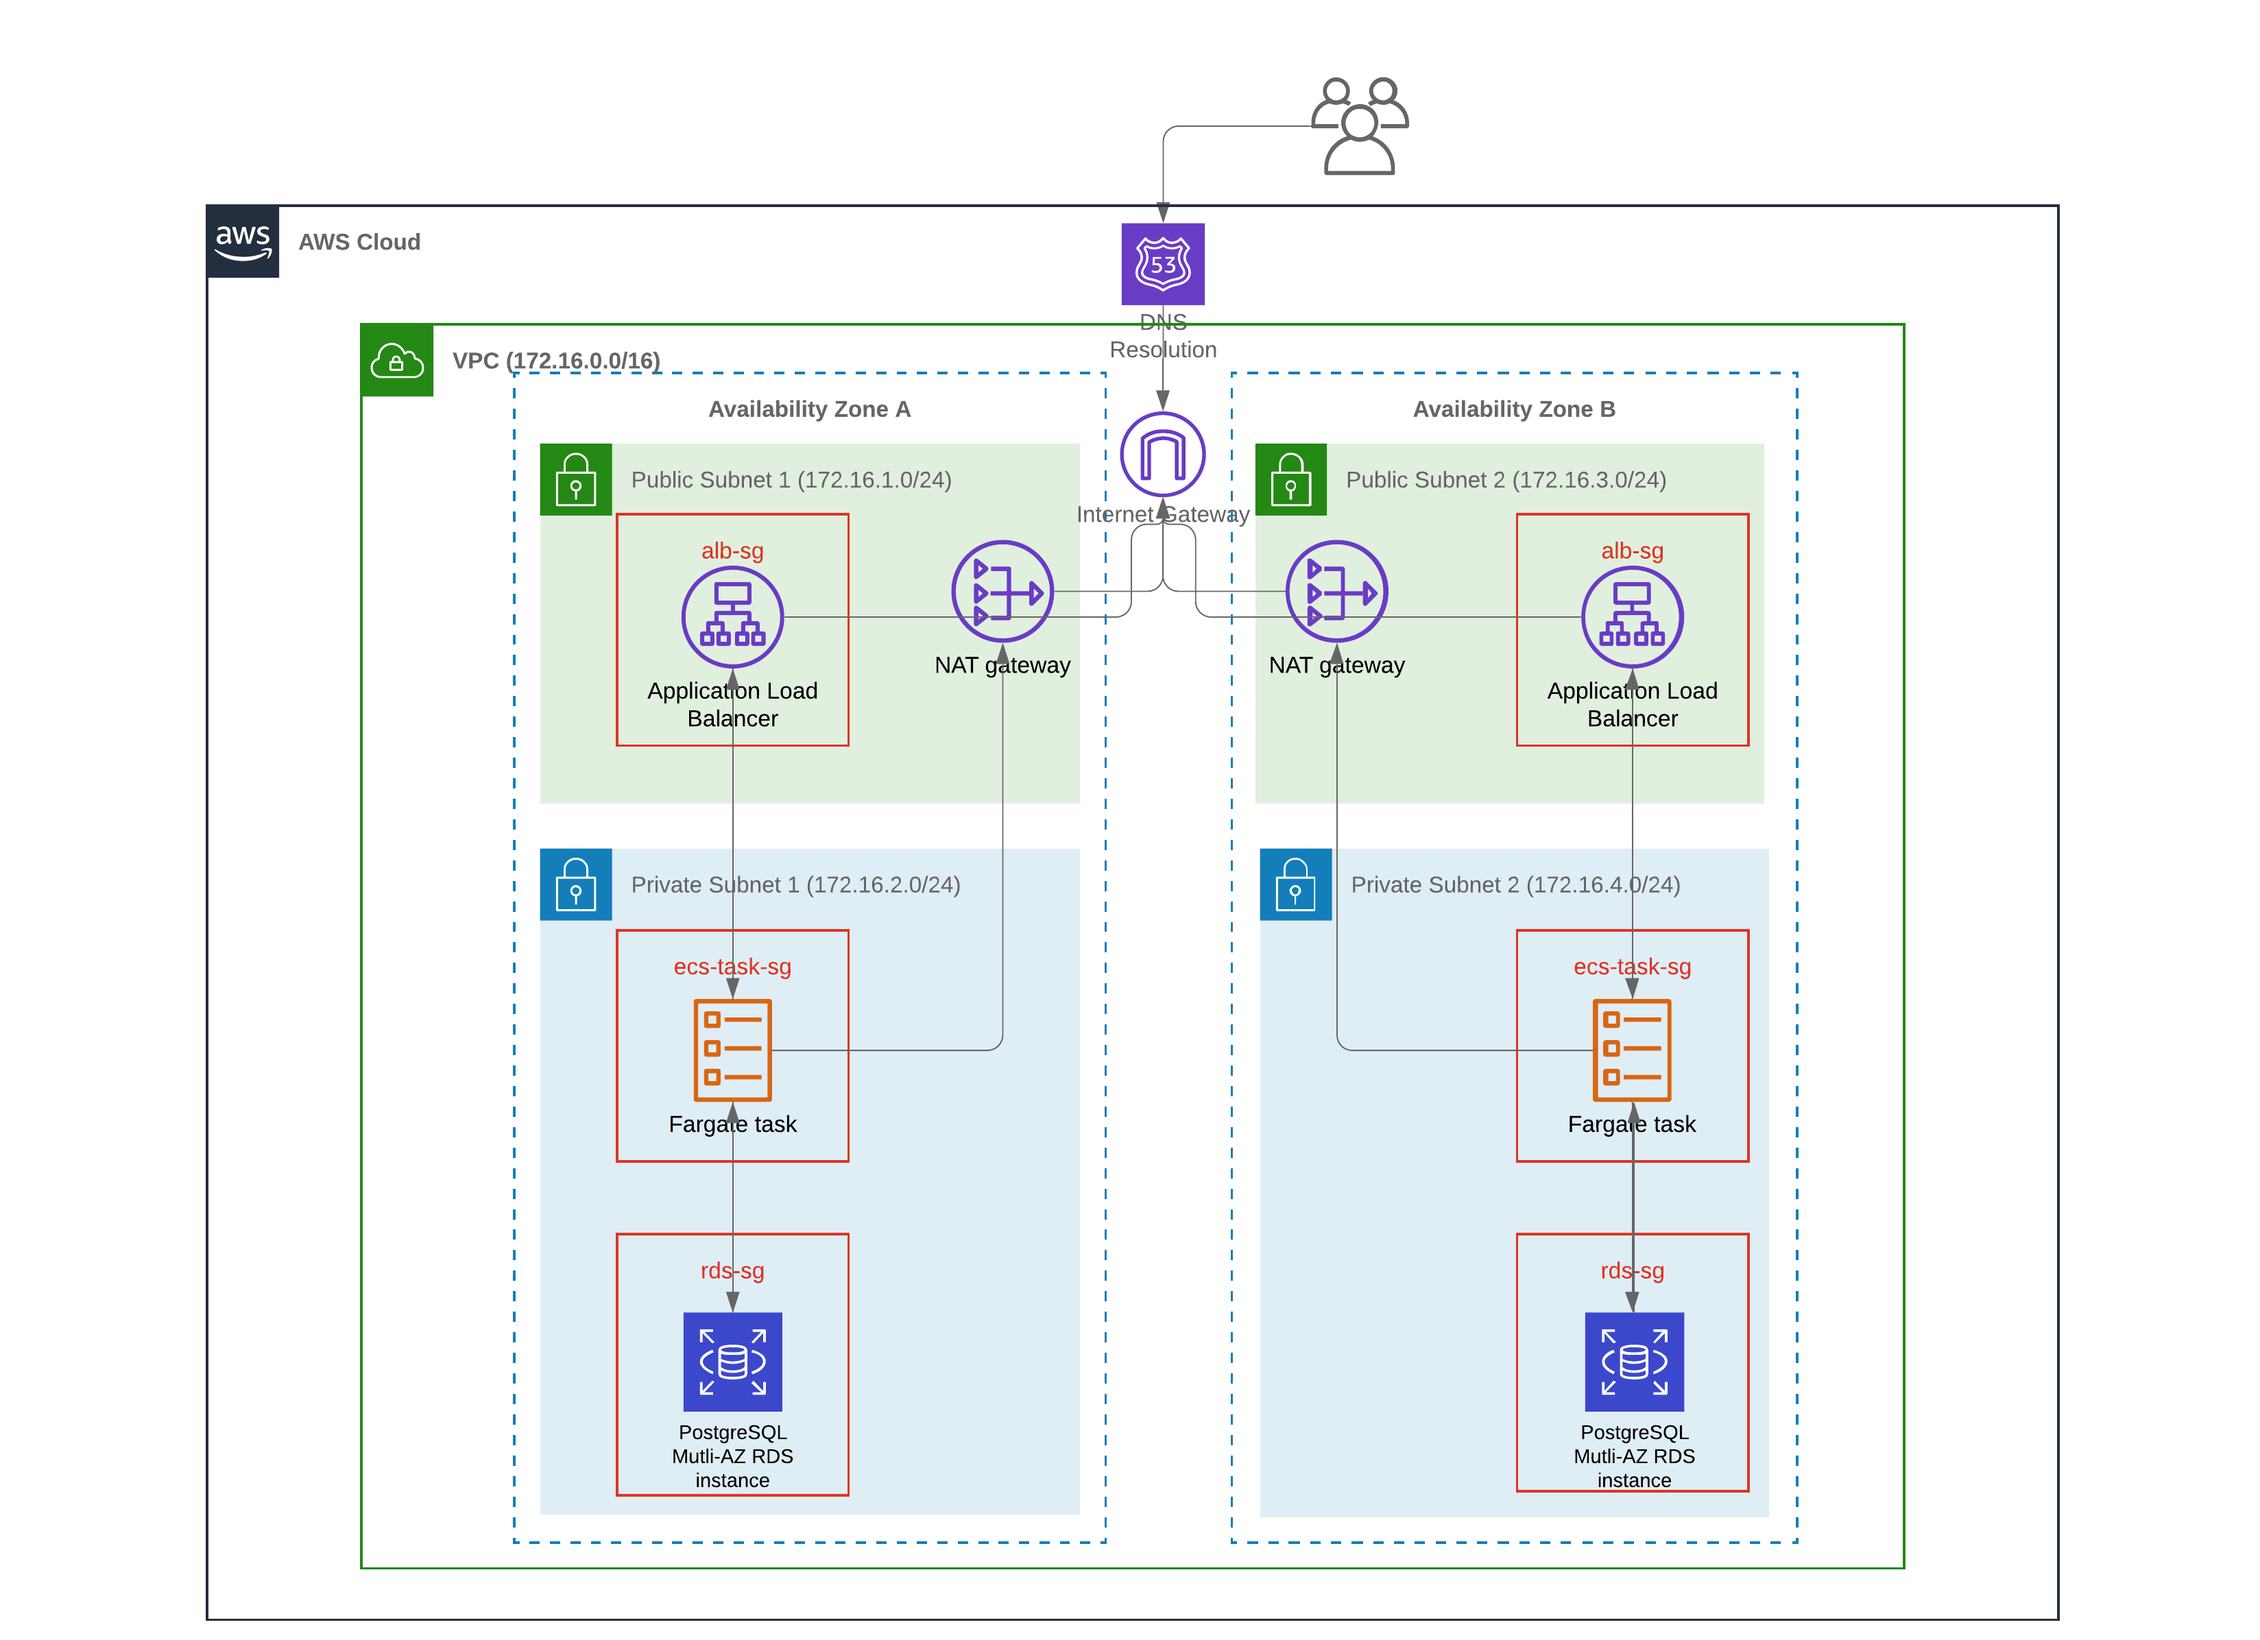
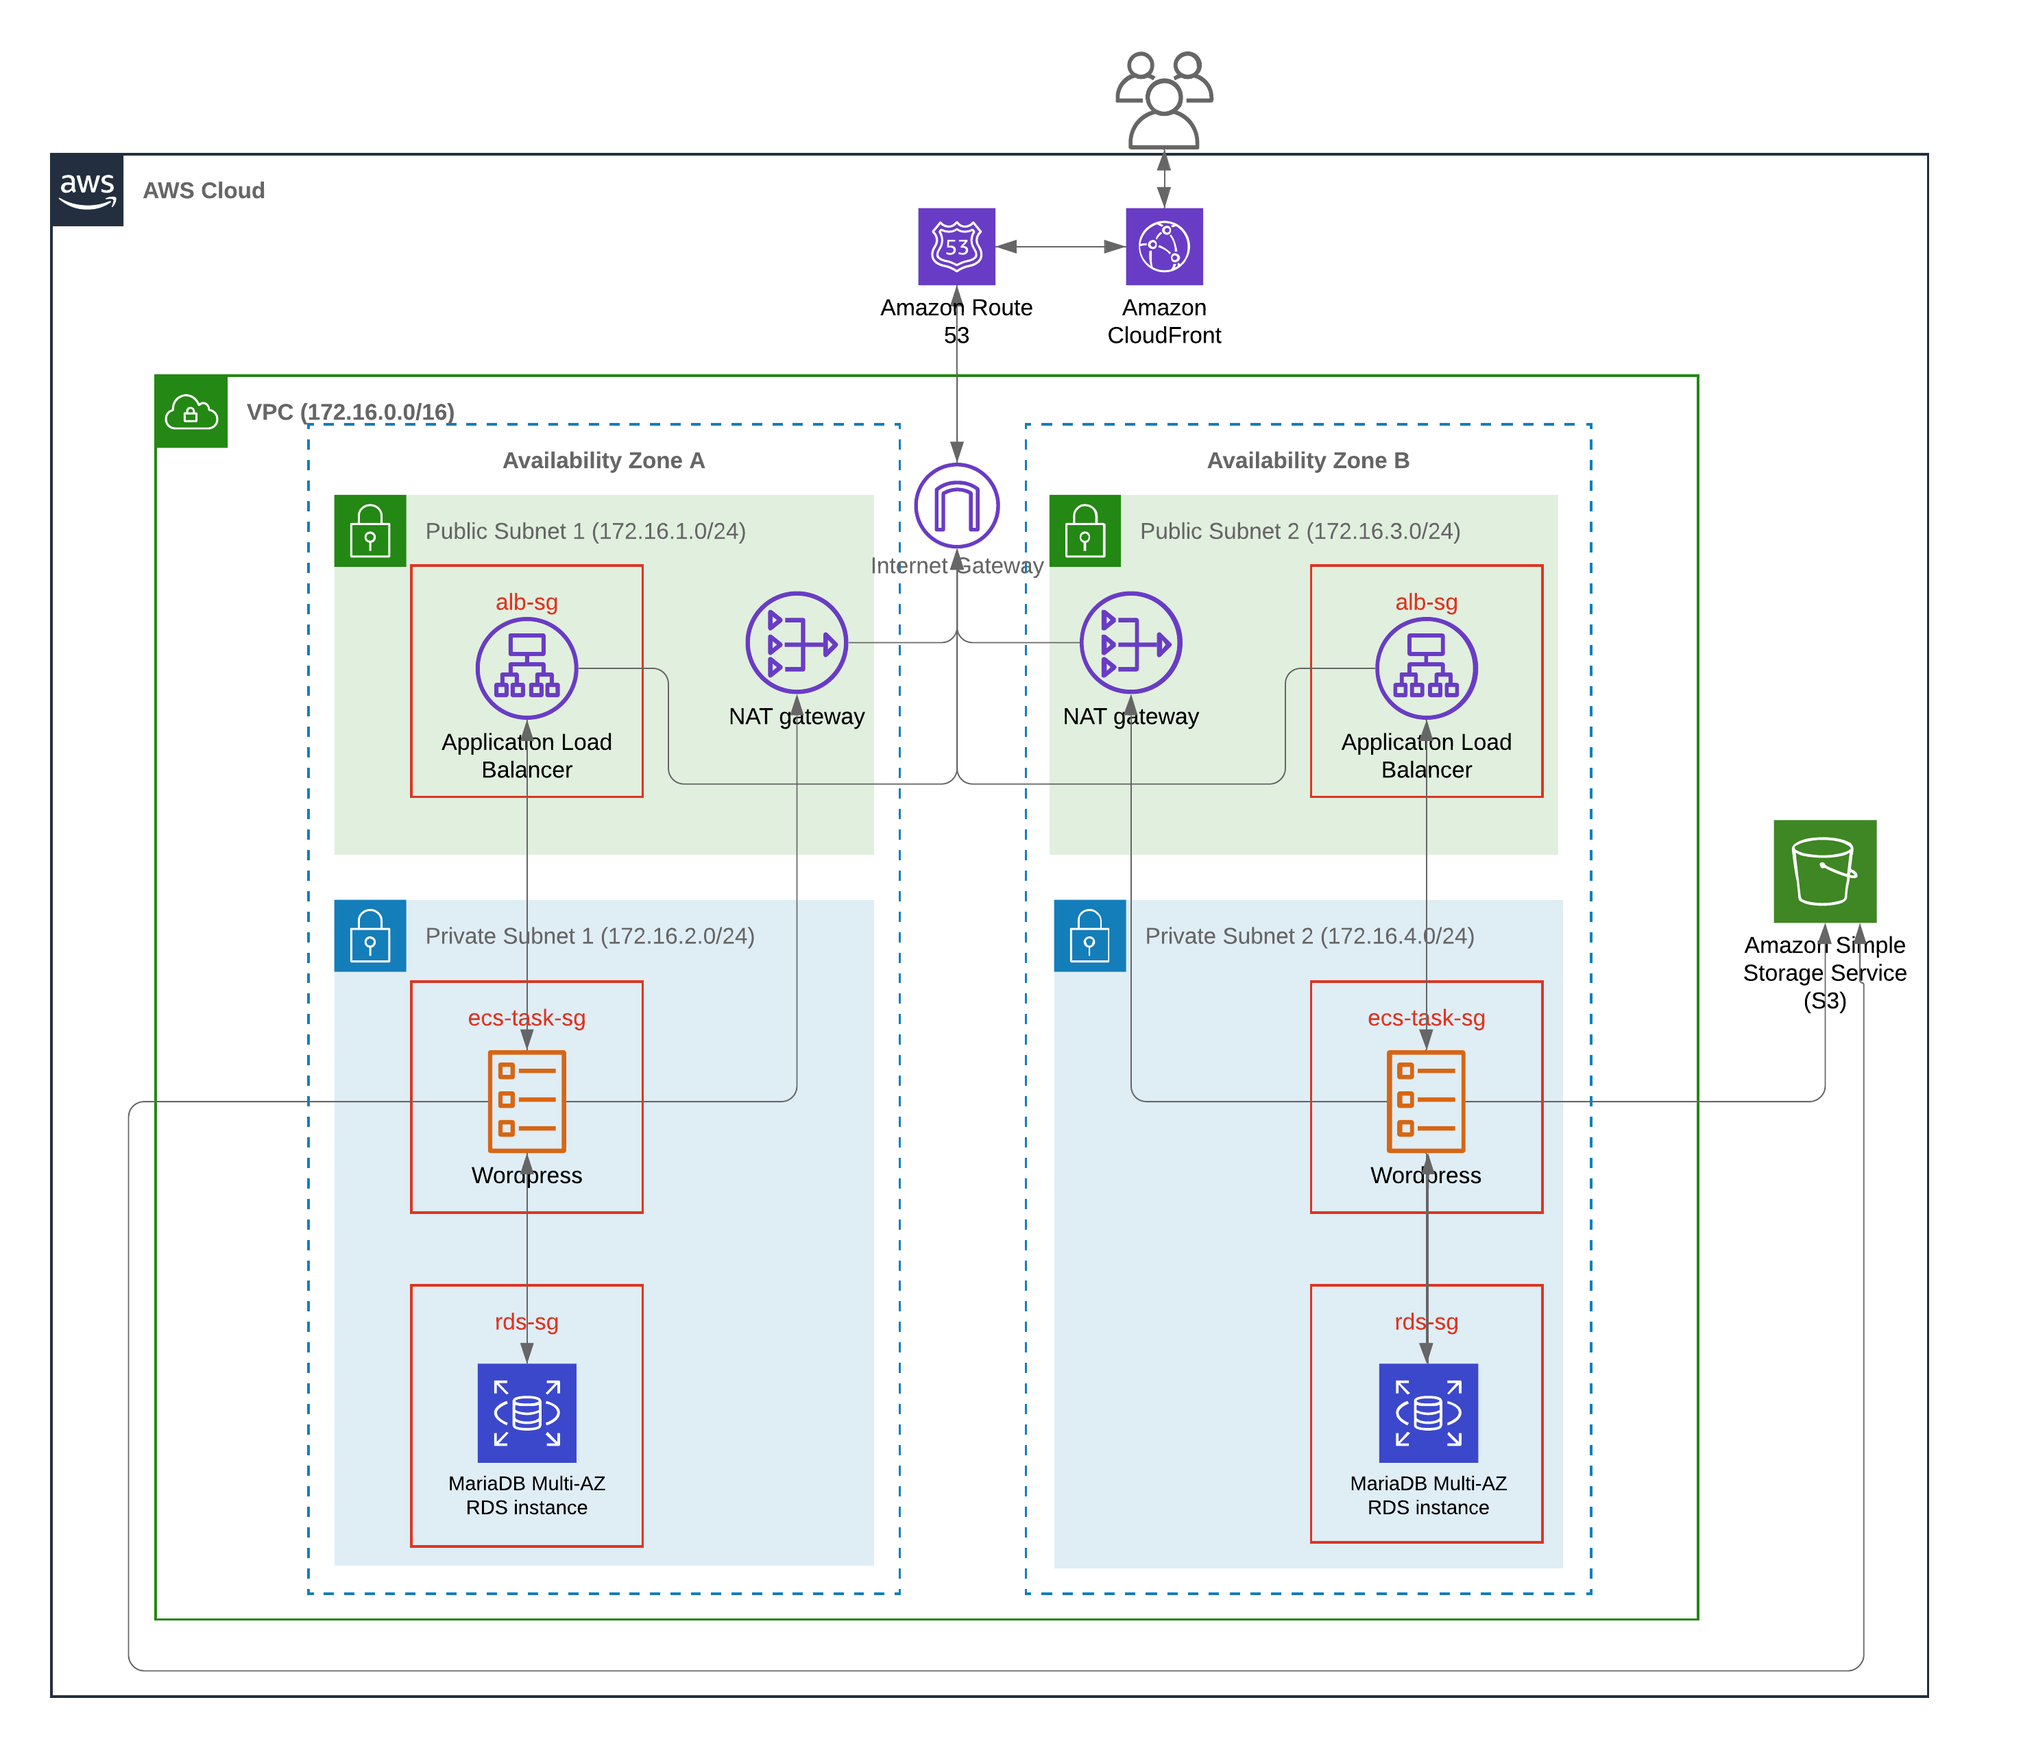
Decided against using a API, using wordpress instead. Updated diagram and README.md, and did some more work on terraform modules.

Changed region(s): [[0.062, 0.0309, 0.9302, 0.99], [0.0, 0.0619, 0.186, 0.1856], [0.8372, 0.464, 0.9302, 0.5878]]

diff --git a/README.md b/README.md
@@ -1,8 +1,6 @@
 # aws-ecs-ha-app
 
-This is a repository for my personal project of setting up a high availability application on AWS ECS Fargate.
-
-The application I will be using is a RESTful API boilerplate written in Golang. I did not create this. [Here is the link to the repository.](https://github.com/qiangxue/go-restful-api)
+This is a repository for my personal project of setting up a high availability Wordpress site on AWS Fargate.
 
 A rough diagram of the infrastructure is below.
 ![Application Diagram](img/diagram.png)
